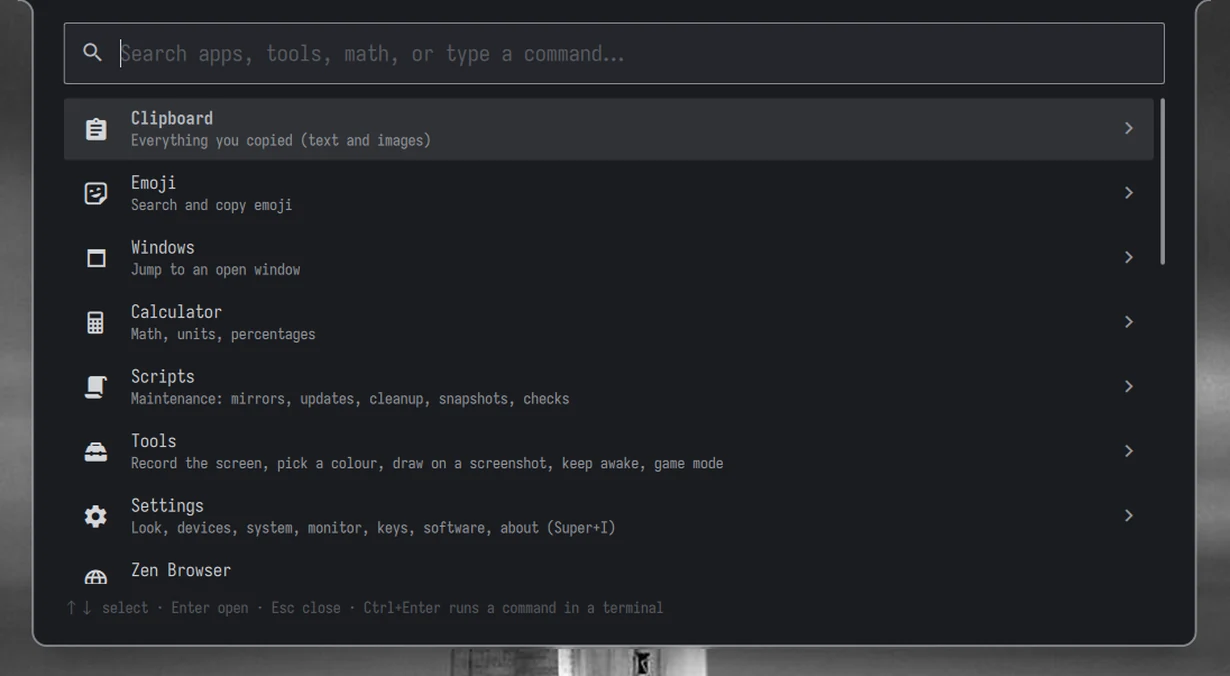
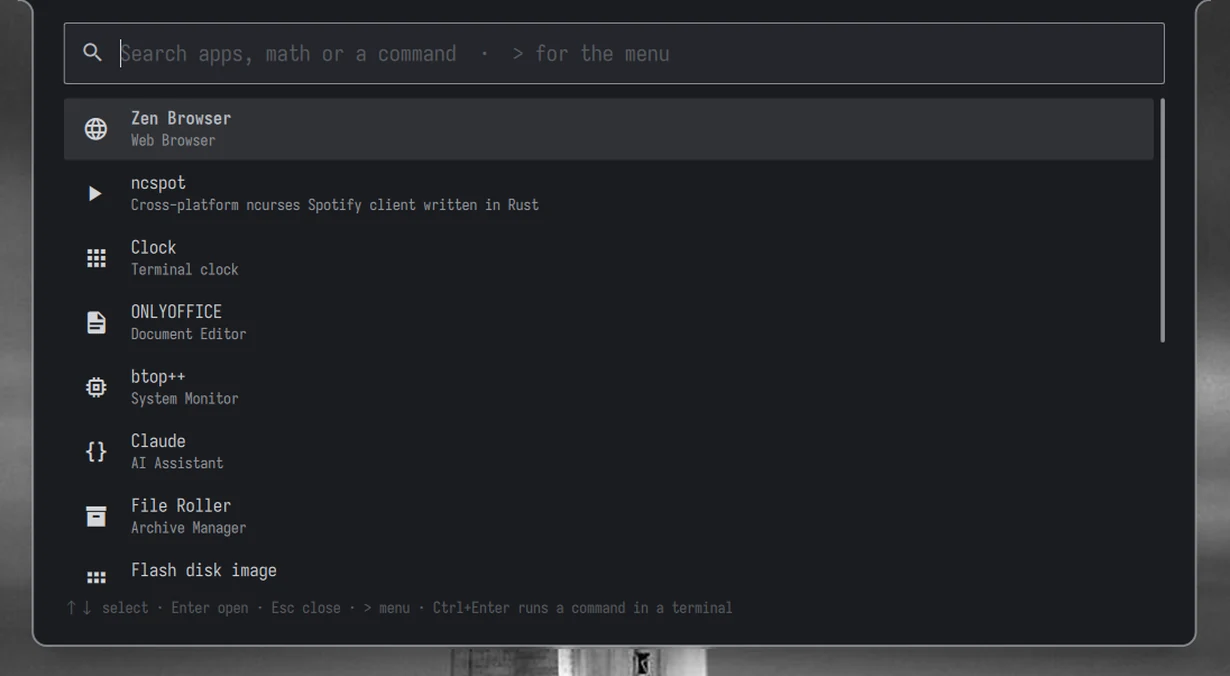
Launcher: apps first, the menu after '>'; Update system lists new .pacnew files
A plain search shows apps (plus a math result and Run). Typing > shows only the menu (clipboard, emoji,
windows, calculator, scripts, tools, Settings); >text searches it and the tools. Update system ends with
any new .pacnew config files, says which ones the rice keeps, and how to compare and remove them.

diff --git a/dots/.config/quickshell/LauncherPanel.qml b/dots/.config/quickshell/LauncherPanel.qml
@@ -1,8 +1,9 @@
 // LauncherPanel.qml -- the launcher inside the grown notch (Super + R: `qs ipc call notch toggle launcher`),
 // no prefix characters: just type.
-//   Main view: just type. Apps (most used first) and the menu entries below are searched together; a line
-//   that looks like math shows its result on top; the last row runs what you typed as a command.
-//   Menu entries open as their own list (Enter), with a breadcrumb "Menu › …":
+//   Main view: just type. Apps only (most used first); a line that looks like math shows its result on top;
+//   the last row runs what you typed as a command.
+//   ">" shows the menu instead (">rec" searches it and the tools). Entries open as their own list (Enter),
+//   with a breadcrumb "Menu › …":
 //     Clipboard (history; Enter copies it back, Shift+Del removes)   Emoji (grid; Enter copies)
 //     Windows (Enter focuses)   Calculator (qalc; Enter copies)   Scripts (~/.local/share/rice/scripts)
 //     Tools (record the screen, pick a colour, draw on a screenshot, keep awake, game mode, system monitor)
@@ -162,6 +163,13 @@ Item {
     // ---------- results of the current view ----------
     readonly property var results: {
         const s = q
+        if (view === "main" && s.startsWith(">")) {            // ">": the menu (and its tools), nothing else
+            const m = s.slice(1).trim()
+            const menuRows = menu.filter(x => !m || Math.max(score(x.title, m), score(x.sub, m) * 0.6) > 0)
+                .map(x => ({ kind: "menu", title: x.title, sub: x.sub, glyph: x.glyph, target: x.id, more: true }))
+            const toolRows = m ? tools.filter(t => score(t.title, m) > 0).map(t => ({ kind: "tool", title: t.title, sub: t.sub, glyph: t.glyph, tool: t })) : []
+            return menuRows.concat(toolRows)
+        }
         if (view === "main") {
             const use = a => usage[a.id] || 0
             const apps = DesktopEntries.applications.values.filter(a => !a.noDisplay)
@@ -170,13 +178,9 @@ Item {
             apps.sort((x, y) => s ? ((y.sc - x.sc) || (use(y.a) - use(x.a)) || x.a.name.localeCompare(y.a.name))
                                   : ((use(y.a) - use(x.a)) || x.a.name.localeCompare(y.a.name)))
             const appRows = apps.slice(0, 40).map(x => ({ kind: "app", title: x.a.name, sub: x.a.genericName || x.a.comment || "", icon: x.a.icon, glyph: typeGlyph(x.a), entry: x.a }))
-            const menuRows = menu.filter(m => !s || Math.max(score(m.title, s), score(m.sub, s) * 0.6) > 0)
-                .map(m => ({ kind: "menu", title: m.title, sub: m.sub, glyph: m.glyph, target: m.id, more: true }))
             let r = []
             if (looksMath && calcResult && calcFor === s) r.push({ kind: "calc", title: "= " + calcResult, sub: s + "   ·   Enter copies the result", glyph: "" })
-            // tools also show up straight from the main search ("record", "colour", ...)
-            const toolRows = s ? tools.filter(t => score(t.title, s) > 0).map(t => ({ kind: "tool", title: t.title, sub: t.sub, glyph: t.glyph, tool: t })) : []
-            r = s ? r.concat(appRows, toolRows, menuRows) : r.concat(menuRows, appRows)
+            r = r.concat(appRows)
             if (s) r.push({ kind: "run", title: "Run “" + s + "”", sub: "as a command · Ctrl+Enter: in a terminal", glyph: "", cmd: s })
             return r
         }
@@ -256,7 +260,7 @@ Item {
                 clip: true
                 Text {
                     visible: !input.text
-                    text: root.view === "main" ? "Search apps, tools, math, or type a command…" : "Search…"
+                    text: root.view === "main" ? "Search apps, math or a command  ·  > for the menu" : "Search…"
                     color: Theme.dim; font: input.font
                 }
                 Keys.onPressed: (e) => {
@@ -398,7 +402,7 @@ Item {
             width: parent.width; height: 18; elide: Text.ElideRight
             text: root.view === "emoji" && root.results[root.sel] ? root.results[root.sel].sub
                 : "↑↓ select · Enter open · " + (root.stack.length ? "Backspace/Esc back" : "Esc close")
-                  + (root.view === "clip" ? " · Shift+Del remove" : "") + (root.view === "main" ? " · Ctrl+Enter runs a command in a terminal" : "")
+                  + (root.view === "clip" ? " · Shift+Del remove" : "") + (root.view === "main" ? " · > menu · Ctrl+Enter runs a command in a terminal" : "")
             color: Theme.dim; font.family: Theme.font; font.pixelSize: 11
         }
     }

diff --git a/README.md b/README.md
@@ -108,7 +108,7 @@ Rosé Pine Dawn · Solarized Dark · Terafox · Tokyo Night · Vantablack · Whi
 | Launcher (<kbd>Super</kbd>+<kbd>R</kbd>) · Graphite | System · Catppuccin Mocha |
 |:---:|:---:|
 | <img src="docs/screenshots/notch-launcher.webp" alt="Launcher: apps, clipboard, emoji, calculator, scripts"> | <img src="docs/screenshots/notch-system.webp" alt="System panel: performance mode, GPU, screen, fans"> |
-| Apps, clipboard, emoji, calculator, windows, maintenance scripts | Performance mode, GPU, refresh rate, keyboard light, fans |
+| Apps, math, commands; type <kbd>></kbd> for clipboard, emoji, windows, tools and scripts | Performance mode, GPU, refresh rate, keyboard light, fans |
 
 | Calendar and weather · Everforest Light | Sound · Rosé Pine |
 |:---:|:---:|
@@ -235,6 +235,10 @@ Each one comes with what to do about it, or how to make it fit your system.
 - **Shake to find is a Hyprland plugin**, built for your Hyprland version at the first login. After a Hyprland update,
   Update system rebuilds it; if a build ever fails, the pointer simply stops growing and you get a notification.
   You can switch it off in Settings > Mouse & keyboard.
+- **Updates keep the rice's settings.** pacman never overwrites a config file that was changed (the rice changes a few:
+  the login screen, boot splash, GRUB and initramfs settings). When a package brings a new default for one, it is
+  saved next to it as `<file>.pacnew` and nothing else happens. Update system lists any it finds at the end; compare
+  with `diff <file> <file>.pacnew`, take what you want, then delete the `.pacnew`. Leaving it does no harm.
 - **The pointer changes in apps opened afterwards.** Apps that were already open keep the old pointer until you
   restart them.
 - **Extra hardware controls exist for ASUS and hybrid NVIDIA laptops only.** Other laptops get the standard
